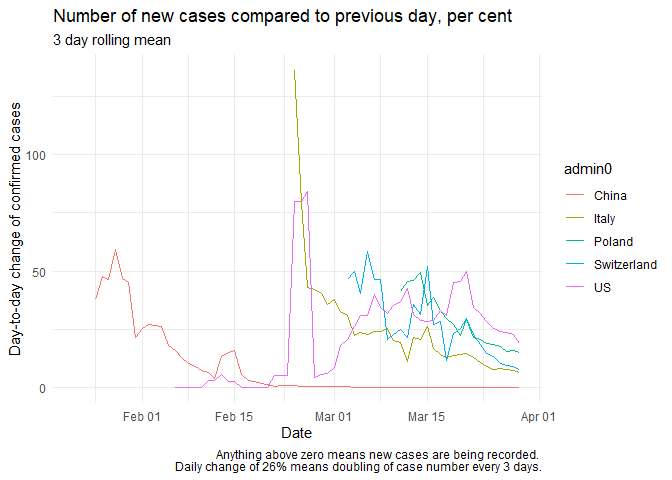
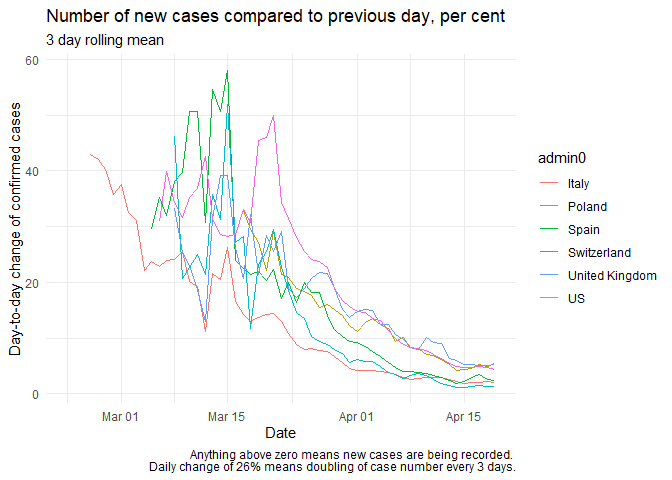
cleanup

diff --git a/README.md b/README.md
@@ -9,8 +9,8 @@ cases tends to exhibit nice exponential behaviour from 10 or so cases
 upwards. `places_to_chart` defines which countries to chart. Duh.
 
 ``` r
-threshold = 10
-places_to_chart = c("Switzerland", "Italy", "China", "Poland", "US")
+threshold = 100
+places_to_chart = c("Switzerland", "Poland", "Spain", "Italy", "United Kingdom", "US")
 ```
 
 ## Load data
@@ -93,8 +93,10 @@ all_data_admin0 %>%
   covplot
 
 covplot + aes(x=Date, y=Active, colour=admin0) +
+  scale_x_date(date_breaks = "1 week", date_labels ="%a\n%d %b") + 
+  # theme(axis.text.x = element_text(angle = 90, vjust = 0.5, hjust=1))
   scale_y_log10(labels = scales::comma) + 
-  labs(title = "Active cases by date, log scale", colour = "Country") 
+  labs(title = "Active cases by date, log scale", colour = "Country")
 ```
 
 ![](readme_files/figure-gfm/chart-1.png)<!-- -->
@@ -117,7 +119,7 @@ covplot +
        Daily change of 26% means doubling of case number every 3 days.")
 ```
 
-    ## Warning: Removed 15 rows containing missing values (geom_path).
+    ## Warning: Removed 18 rows containing missing values (geom_path).
 
 ![](readme_files/figure-gfm/chart-3.png)<!-- -->
 
@@ -125,13 +127,13 @@ covplot +
 covplot + 
   aes(x=Date, y=`Day-to-day change of rate of change of number of confirmed cases`, colour=admin0) + 
   # geom_smooth(se=F) + 
-  labs(title = "Change of speed of increase of active cases", 
+  labs(title = "Change of speed of increase of confirmed cases", 
        subtitle = "7 day rolling mean",
-     caption = "Positive values mean that active cases are increasing at an increasing rate. 
-     Negative values mean that active cases are increasing at a decreasing rate.")
+     caption = "Positive values mean that confirmed cases are increasing at an increasing rate. 
+     Negative values mean that confirmed cases are increasing at a decreasing rate.")
 ```
 
-    ## Warning: Removed 49 rows containing missing values (geom_path).
+    ## Warning: Removed 54 rows containing missing values (geom_path).
 
 ![](readme_files/figure-gfm/chart-4.png)<!-- -->
 
@@ -139,22 +141,18 @@ covplot +
 covplot + 
   aes(x=Confirmed, y=`Day-to-day change of confirmed cases`, colour=admin0) +
   scale_x_continuous(labels = scales::comma) + 
-  labs(title = "Rate of change of number of cases by\nthe point in the pandemic in which each country is", 
-     caption = "This is the chart that really shows how truly screwed the US is.\nI'll add some explanation since it's not easy to read.")
+  labs(title = "Rate of change of number of confirmed cases by\nthe point in the pandemic in which each country is"
+       #   ,  caption = "This is the chart that really shows how truly screwed the US is."
+)
 ```
 
-    ## Warning: Removed 15 rows containing missing values (geom_path).
+    ## Warning: Removed 18 rows containing missing values (geom_path).
 
 ![](readme_files/figure-gfm/chart-5.png)<!-- -->
 
 ## To do
 
-  - switch data source to ECDC?
-
   - add country population, compute cases per capita
-
-  - compute and chart moving window weekly (3-day?) averages, because
-    these charts are a mess
 
   - labels
     
@@ -179,3 +177,12 @@ covplot +
   - add a “days since first case” metric as an alternative x-axis to
     actual date
   - add deaths and recovered cases, compute active cases
+  - compute and chart moving window weekly (3-day?) averages, because
+    these charts are a mess
+
+#### Not done
+
+  - switch data source to ECDC
+    
+      - it’s nice in that it comes as a single JSON and has population
+        number, but doesn’t inclde recovered case numbers.
